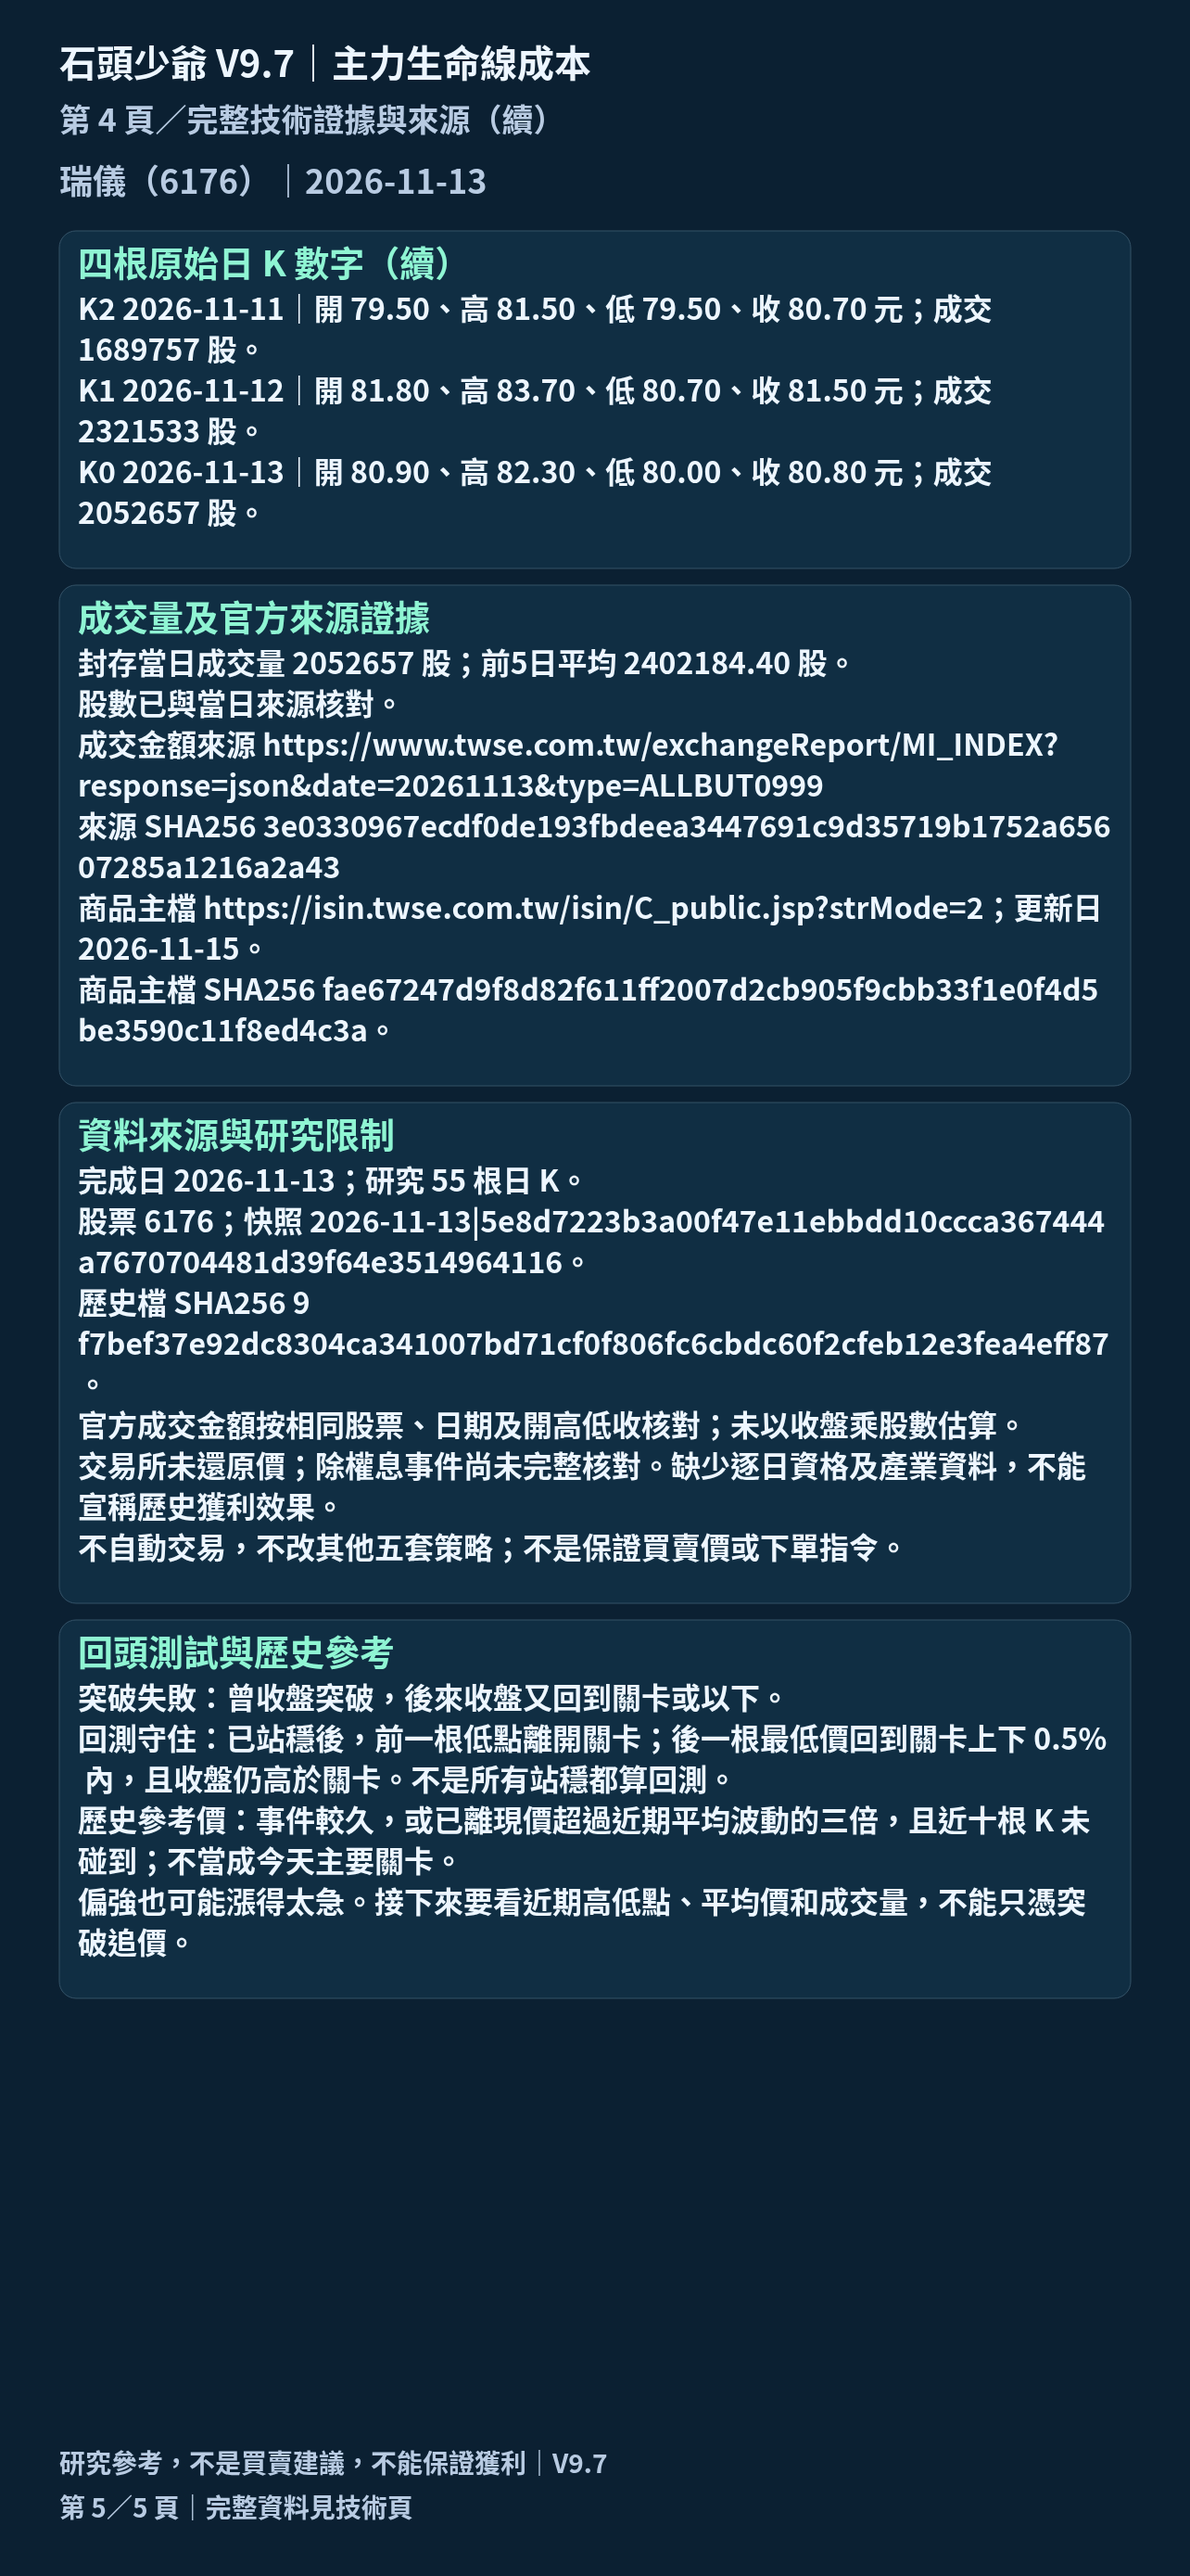
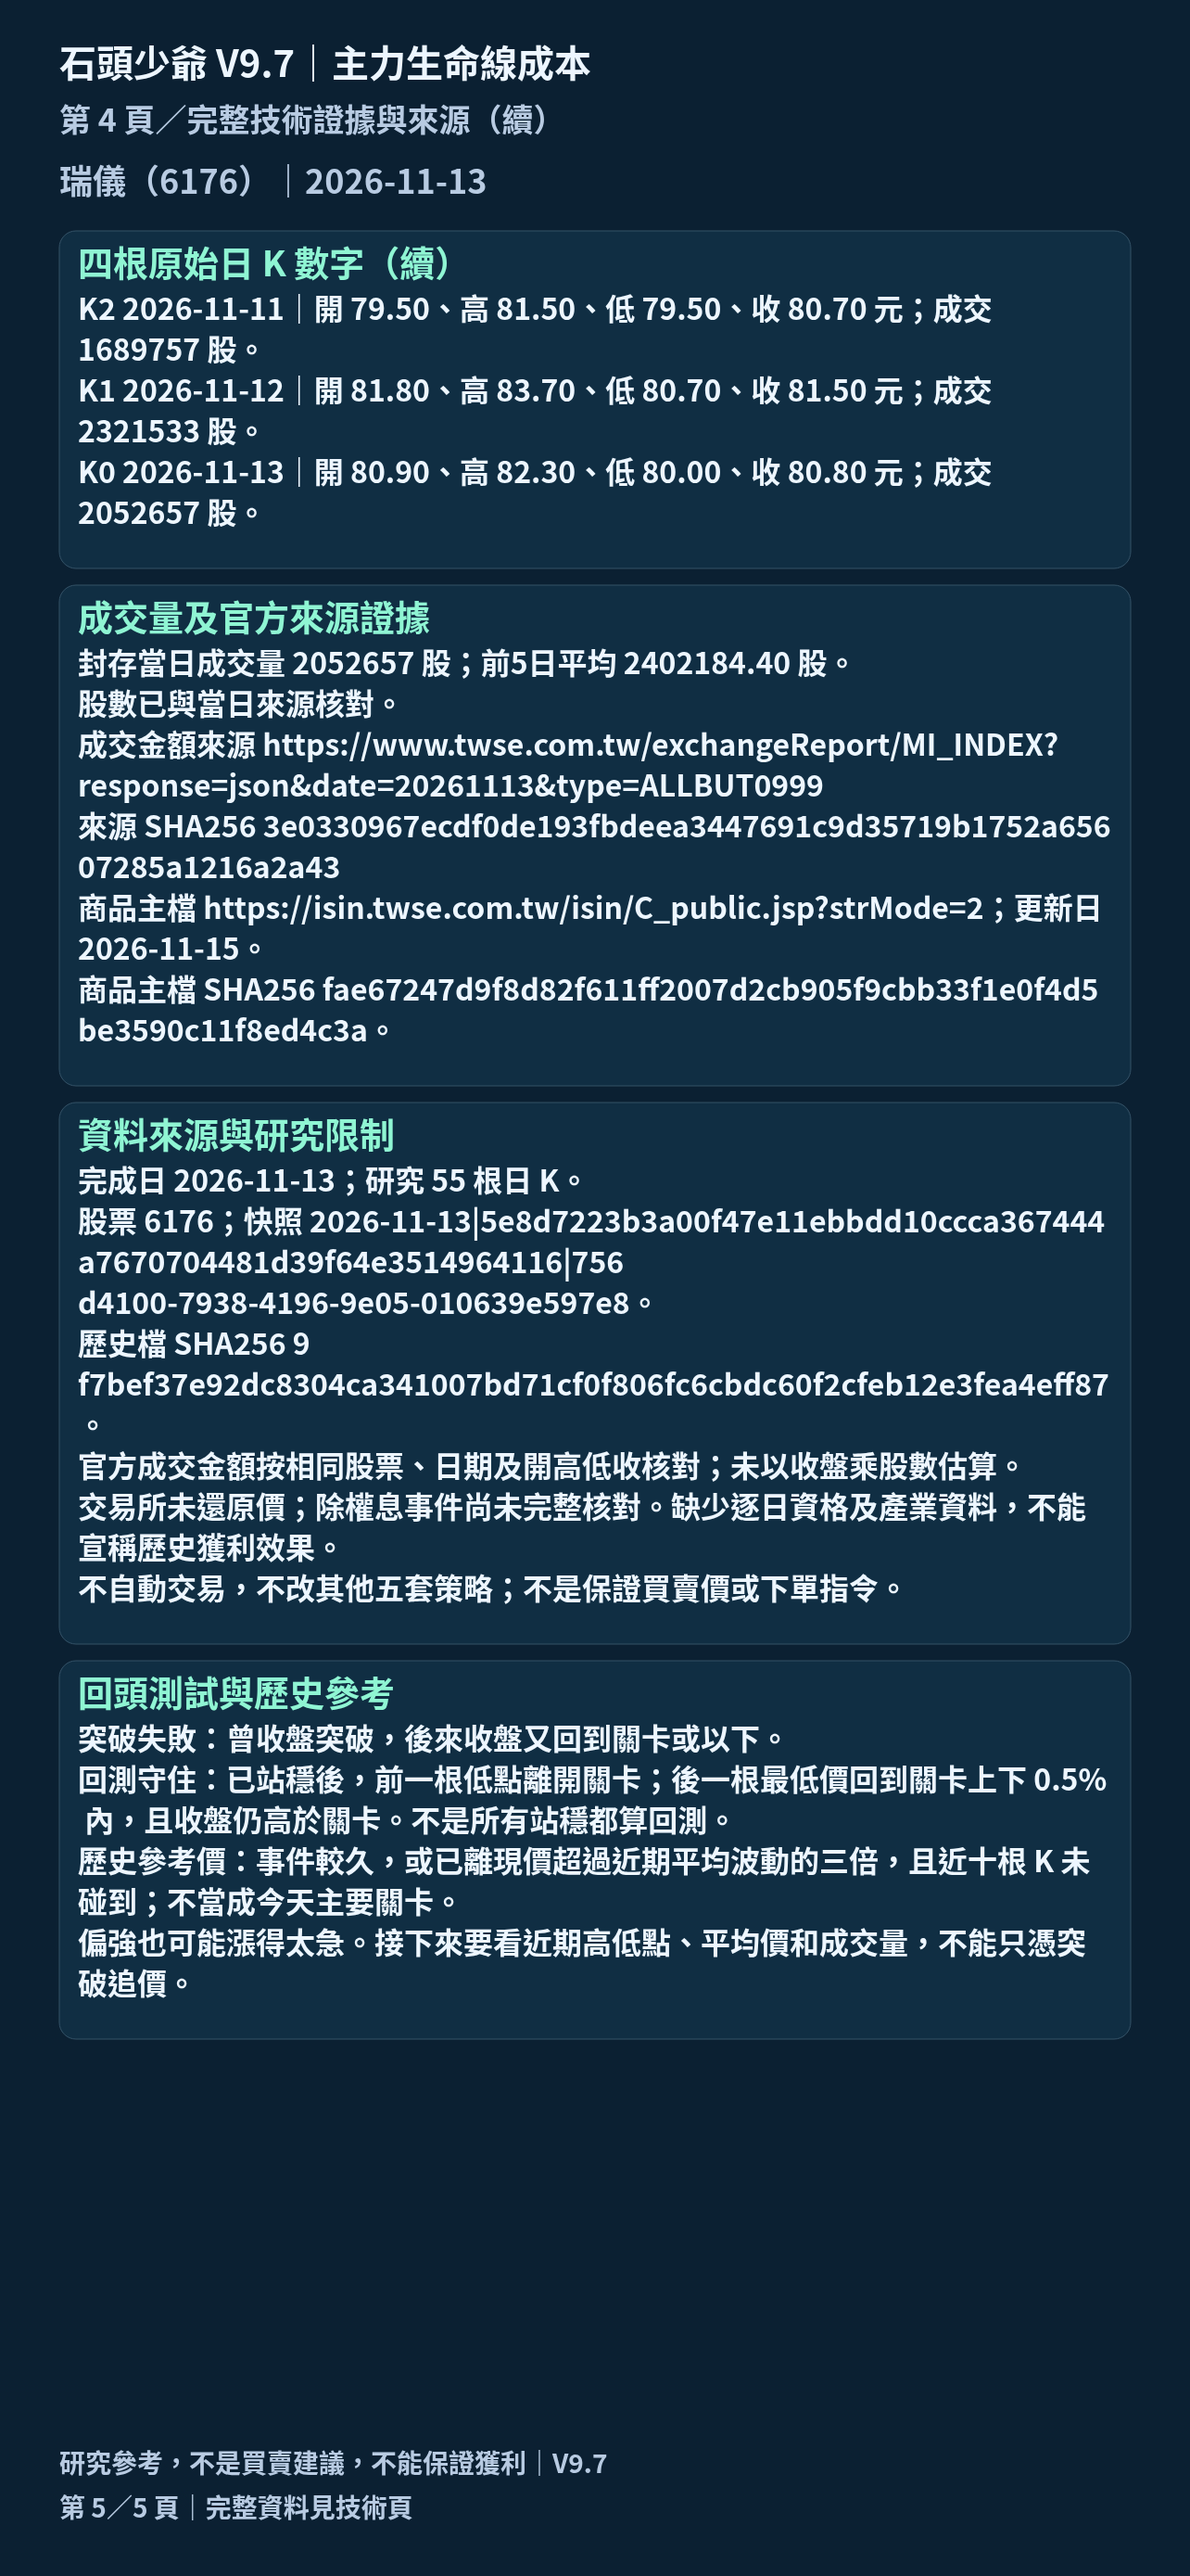
fix: 綁定獨立掃描快照並修正既有圖片驗收等待競態

Changed region(s): [[0.0623, 0.4644, 0.9346, 0.7739]]

diff --git a/main-force-lifeline-scanner-v97.js b/main-force-lifeline-scanner-v97.js
@@ -14,7 +14,7 @@ function context({market,manifest,calendar,liquidity,now=new Date()}){
 }
 async function scan(options={}){
  if(active)throw Error('掃描正在進行，請先停止或等待完成');
- const c=context(options),controller=new AbortController();active=controller;last=null;const records=[],startedAt=new Date().toISOString();let cursor=0;
+ const c=context(options),controller=new AbortController();c.snapshotId+='|'+globalThis.crypto.randomUUID();active=controller;last=null;const records=[],startedAt=new Date().toISOString();let cursor=0;
  const timeout=Math.min(60000,Math.max(100,options.timeout||12000)),retries=options.retries??1,concurrency=Math.min(8,Math.max(1,options.concurrency||4));
  function progress(){options.onProgress?.(Engine.summarize(records,{total:c.rows.length,completed:false,date:c.target,snapshotId:c.snapshotId}));}
  async function worker(){while(!controller.signal.aborted){const i=cursor++;if(i>=c.rows.length)return;const quote=c.rows[i],item=c.manifest.stocks[quote.code];let record;

diff --git a/docs/RELEASE_V9.7.md b/docs/RELEASE_V9.7.md
@@ -59,7 +59,7 @@
 
 正式風險門檻：資格完整、距離0～6%、RSI5<80、ATR占比<6%、已核對量比0.8～2.5倍、技術指標完整，且沒有觸發既有「離5日平均價超過兩倍近期波動」的追高提醒。A級另需距離≤3%且分數≥75；其餘通過者B級；高風險、排除或不足列C級。RSI5≥85另顯示高度追價警戒。Top8只用正式候選，分數降序、距離升序、代號穩定排序，不湊數。
 
-停止或未完成時不產生Top8。完整跑完但有資料不足時，明確標示「已核驗範圍」，不能當全市場完整排名。全部新生事件與正式名單分開。資格不足、排除與成功統計有不同觀察層級，旗標可重疊，不能相加冒充母體。
+停止或未完成時不產生Top8。完整跑完但有資料不足時，明確標示「已核驗範圍」，不能當全市場完整排名。全部新生事件與正式名單分開。每次掃描的快照編號包含目標日、行情指紋及獨立UUID；完成結果與逐股來源凍結，官方事實更新或重掃不會混用舊匯出。資格不足、排除與成功統計有不同觀察層級，旗標可重疊，不能相加冒充母體。
 
 ## 操作與報告
 
@@ -80,6 +80,8 @@
 原五套以相同2026-11-13官方快照實際點擊重跑，完整結果物件（入選、排序、分數與狀態）與基準完全相同。共用核心與原計算模組 SHA 保護不變；原8039／8099／2330共21頁 PNG 逐位元一致。大盤入口及下載／分享／ZIP另做回歸。
 
 120交易日回放辨識20922個原始事件；逐日資格、產業、公司行動與可成交性證據不足，全部阻擋正式績效宣告。四種消融組合及1／3／5日欄位均保留，沒有可靠已完成報酬樣本，平均報酬與勝率為null。成本模型包含雙邊手續費0.1425%、賣出證交稅0.3%、每邊滑價0.1%，但沒有憑此假設所有歷史都可成交。`performanceValidated=false`，不宣稱改善績效或已完成樣本外驗證。
+
+CI曾捕捉既有Kronos瀏覽器測試在圖片尚未編碼完成就測試下載阻擋的競態；只修正測試等待公開狀態與圖片備妥，保留原查詢變更及模型過期阻擋斷言。原凍結六個真實標的重跑通過，正式模型與報告程式未修改。
 
 手機驗收為 Chromium 的428×926、390、360與桌面1440；真實 iPhone與LINE App未驗證。Web Share API成功、使用者手勢、取消、失敗及下載替代可用瀏覽器模擬驗證，不保證LINE壓縮／預覽行為。
 
